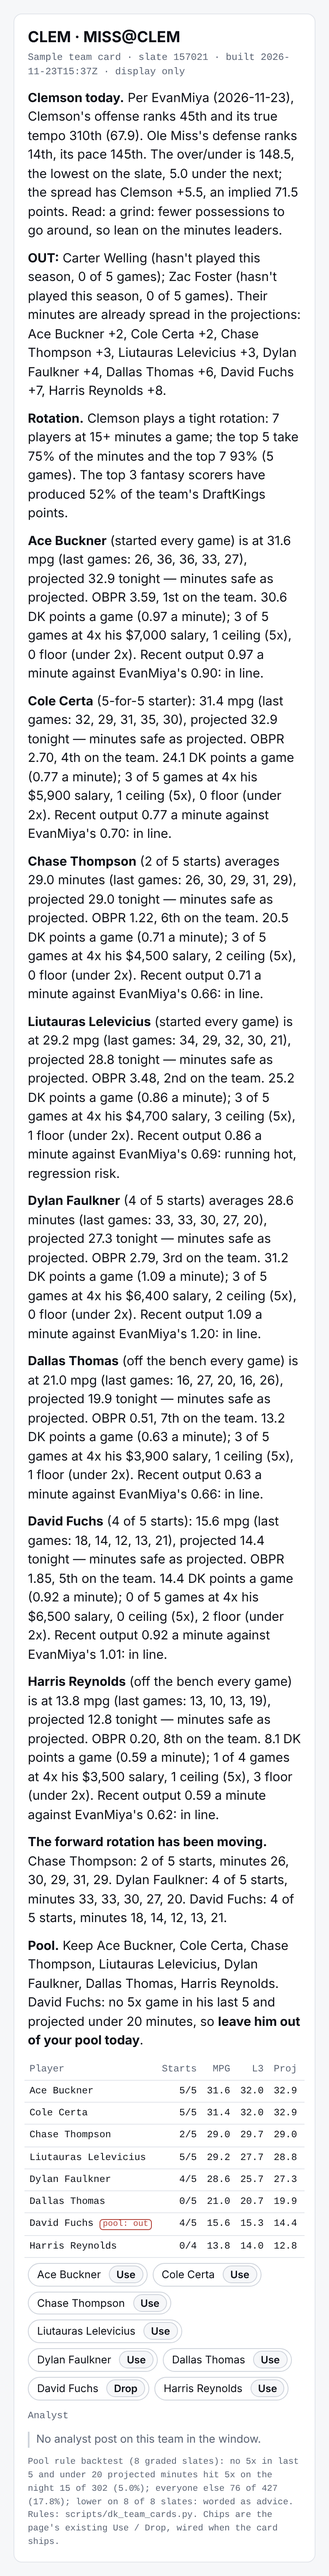
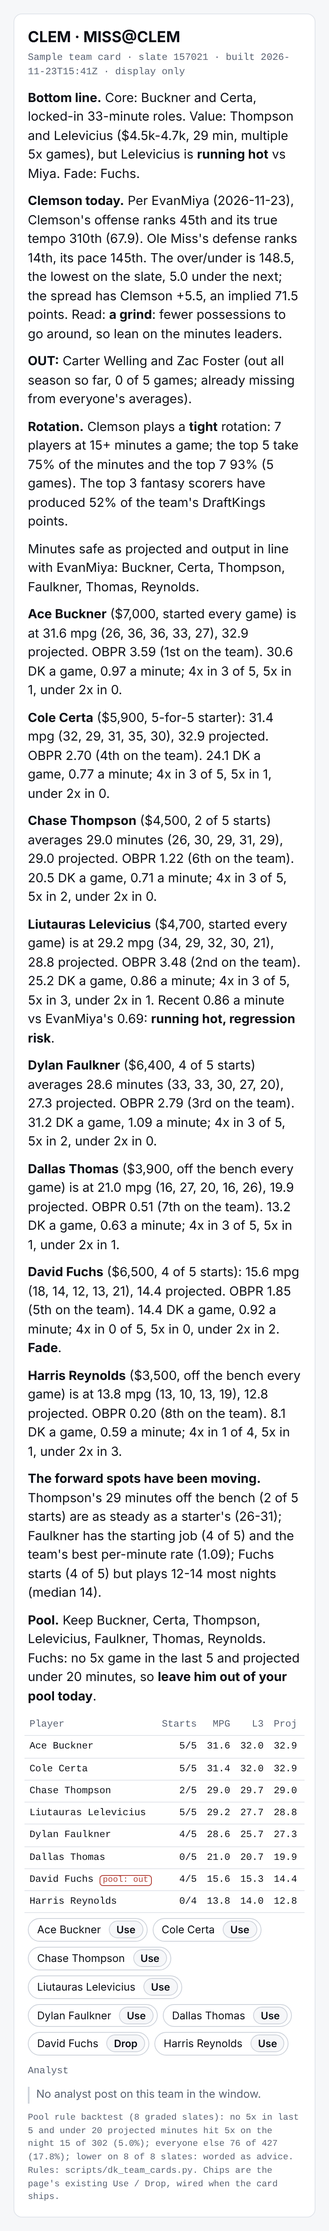
Team write-up sample: bottom line first, new-outs-only redistribution, less repetition, forward read
The coordinator's review of the Clemson sample: a computed bottom line (Core,
Value with the running-hot caveat, Fade), the minutes redistribution only for
outs who played this season (NEW_OUT_MIN_GP), 'minutes safe' and 'in line'
gathered into one sentence, salary in each player's first line, verdicts in
bold, and the moving forward group read in words (JOB_START_RATE,
STEADY_MIN_MPG, LOW_START_MPG, MOST_NIGHTS). The 4x counts were right; the
count is now a tested function, hand-checked on Buckner.

Claude-Session: https://claude.ai/code/session_01YYnNpCLtiC61XuaXEjG3K4

Changed region(s): [[0.0615, 0.0, 0.9231, 0.9981]]

diff --git a/analysis/cbb/dk/team_card_sample/157021_CLEM.html b/analysis/cbb/dk/team_card_sample/157021_CLEM.html
@@ -20,20 +20,22 @@ td.nm,th.nm{text-align:left;position:sticky;left:0;background:var(--surface)}
 .an{font-size:13px;color:var(--muted);border-left:2px solid var(--line-strong);padding-left:8px}
 .an a{color:var(--muted)}.foot{font-family:var(--mono);font-size:10.5px;color:var(--muted);margin-top:8px}
 </style></head><body><div class="wrap"><div class="card">
-<h1>CLEM · MISS@CLEM</h1><div class="sub">Sample team card · slate 157021 · built 2026-11-23T15:37Z · display only</div>
-<p><b>Clemson today.</b> Per EvanMiya (2026-11-23), Clemson&#x27;s offense ranks 45th and its true tempo 310th (67.9). Ole Miss&#x27;s defense ranks 14th, its pace 145th. The over/under is 148.5, the lowest on the slate, 5.0 under the next; the spread has Clemson +5.5, an implied 71.5 points. Read: a grind: fewer possessions to go around, so lean on the minutes leaders.</p>
-<p><b>OUT:</b> Carter Welling (hasn&#x27;t played this season, 0 of 5 games); Zac Foster (hasn&#x27;t played this season, 0 of 5 games). Their minutes are already spread in the projections: Ace Buckner +2, Cole Certa +2, Chase Thompson +3, Liutauras Lelevicius +3, Dylan Faulkner +4, Dallas Thomas +6, David Fuchs +7, Harris Reynolds +8.</p>
-<p><b>Rotation.</b> Clemson plays a tight rotation: 7 players at 15+ minutes a game; the top 5 take 75% of the minutes and the top 7 93% (5 games). The top 3 fantasy scorers have produced 52% of the team&#x27;s DraftKings points.</p>
-<p><b>Ace Buckner</b> (started every game) is at 31.6 mpg (last games: 26, 36, 36, 33, 27), projected 32.9 tonight — minutes safe as projected. OBPR 3.59, 1st on the team. 30.6 DK points a game (0.97 a minute); 3 of 5 games at 4x his $7,000 salary, 1 ceiling (5x), 0 floor (under 2x). Recent output 0.97 a minute against EvanMiya&#x27;s 0.90: in line.</p>
-<p><b>Cole Certa</b> (5-for-5 starter): 31.4 mpg (last games: 32, 29, 31, 35, 30), projected 32.9 tonight — minutes safe as projected. OBPR 2.70, 4th on the team. 24.1 DK points a game (0.77 a minute); 3 of 5 games at 4x his $5,900 salary, 1 ceiling (5x), 0 floor (under 2x). Recent output 0.77 a minute against EvanMiya&#x27;s 0.70: in line.</p>
-<p><b>Chase Thompson</b> (2 of 5 starts) averages 29.0 minutes (last games: 26, 30, 29, 31, 29), projected 29.0 tonight — minutes safe as projected. OBPR 1.22, 6th on the team. 20.5 DK points a game (0.71 a minute); 3 of 5 games at 4x his $4,500 salary, 2 ceiling (5x), 0 floor (under 2x). Recent output 0.71 a minute against EvanMiya&#x27;s 0.66: in line.</p>
-<p><b>Liutauras Lelevicius</b> (started every game) is at 29.2 mpg (last games: 34, 29, 32, 30, 21), projected 28.8 tonight — minutes safe as projected. OBPR 3.48, 2nd on the team. 25.2 DK points a game (0.86 a minute); 3 of 5 games at 4x his $4,700 salary, 3 ceiling (5x), 1 floor (under 2x). Recent output 0.86 a minute against EvanMiya&#x27;s 0.69: running hot, regression risk.</p>
-<p><b>Dylan Faulkner</b> (4 of 5 starts) averages 28.6 minutes (last games: 33, 33, 30, 27, 20), projected 27.3 tonight — minutes safe as projected. OBPR 2.79, 3rd on the team. 31.2 DK points a game (1.09 a minute); 3 of 5 games at 4x his $6,400 salary, 2 ceiling (5x), 0 floor (under 2x). Recent output 1.09 a minute against EvanMiya&#x27;s 1.20: in line.</p>
-<p><b>Dallas Thomas</b> (off the bench every game) is at 21.0 mpg (last games: 16, 27, 20, 16, 26), projected 19.9 tonight — minutes safe as projected. OBPR 0.51, 7th on the team. 13.2 DK points a game (0.63 a minute); 3 of 5 games at 4x his $3,900 salary, 1 ceiling (5x), 1 floor (under 2x). Recent output 0.63 a minute against EvanMiya&#x27;s 0.66: in line.</p>
-<p><b>David Fuchs</b> (4 of 5 starts): 15.6 mpg (last games: 18, 14, 12, 13, 21), projected 14.4 tonight — minutes safe as projected. OBPR 1.85, 5th on the team. 14.4 DK points a game (0.92 a minute); 0 of 5 games at 4x his $6,500 salary, 0 ceiling (5x), 2 floor (under 2x). Recent output 0.92 a minute against EvanMiya&#x27;s 1.01: in line.</p>
-<p><b>Harris Reynolds</b> (off the bench every game) is at 13.8 mpg (last games: 13, 10, 13, 19), projected 12.8 tonight — minutes safe as projected. OBPR 0.20, 8th on the team. 8.1 DK points a game (0.59 a minute); 1 of 4 games at 4x his $3,500 salary, 1 ceiling (5x), 3 floor (under 2x). Recent output 0.59 a minute against EvanMiya&#x27;s 0.62: in line.</p>
-<p><b>The forward rotation has been moving.</b> Chase Thompson: 2 of 5 starts, minutes 26, 30, 29, 31, 29. Dylan Faulkner: 4 of 5 starts, minutes 33, 33, 30, 27, 20. David Fuchs: 4 of 5 starts, minutes 18, 14, 12, 13, 21.</p>
-<p><b>Pool.</b> Keep Ace Buckner, Cole Certa, Chase Thompson, Liutauras Lelevicius, Dylan Faulkner, Dallas Thomas, Harris Reynolds. David Fuchs: no 5x game in his last 5 and projected under 20 minutes, so <b>leave him out of your pool today</b>.</p>
+<h1>CLEM · MISS@CLEM</h1><div class="sub">Sample team card · slate 157021 · built 2026-11-23T15:41Z · display only</div>
+<p><b>Bottom line.</b> Core: Buckner and Certa, locked-in 33-minute roles. Value: Thompson and Lelevicius ($4.5k-4.7k, 29 min, multiple 5x games), but Lelevicius is <b>running hot</b> vs Miya. Fade: Fuchs.</p>
+<p><b>Clemson today.</b> Per EvanMiya (2026-11-23), Clemson&#x27;s offense ranks 45th and its true tempo 310th (67.9). Ole Miss&#x27;s defense ranks 14th, its pace 145th. The over/under is 148.5, the lowest on the slate, 5.0 under the next; the spread has Clemson +5.5, an implied 71.5 points. Read: <b>a grind</b>: fewer possessions to go around, so lean on the minutes leaders.</p>
+<p><b>OUT:</b> Carter Welling and Zac Foster (out all season so far, 0 of 5 games; already missing from everyone&#x27;s averages).</p>
+<p><b>Rotation.</b> Clemson plays a <b>tight</b> rotation: 7 players at 15+ minutes a game; the top 5 take 75% of the minutes and the top 7 93% (5 games). The top 3 fantasy scorers have produced 52% of the team&#x27;s DraftKings points.</p>
+<p>Minutes safe as projected and output in line with EvanMiya: Buckner, Certa, Thompson, Faulkner, Thomas, Reynolds.</p>
+<p><b>Ace Buckner</b> ($7,000, started every game) is at 31.6 mpg (26, 36, 36, 33, 27), 32.9 projected. OBPR 3.59 (1st on the team). 30.6 DK a game, 0.97 a minute; 4x in 3 of 5, 5x in 1, under 2x in 0.</p>
+<p><b>Cole Certa</b> ($5,900, 5-for-5 starter): 31.4 mpg (32, 29, 31, 35, 30), 32.9 projected. OBPR 2.70 (4th on the team). 24.1 DK a game, 0.77 a minute; 4x in 3 of 5, 5x in 1, under 2x in 0.</p>
+<p><b>Chase Thompson</b> ($4,500, 2 of 5 starts) averages 29.0 minutes (26, 30, 29, 31, 29), 29.0 projected. OBPR 1.22 (6th on the team). 20.5 DK a game, 0.71 a minute; 4x in 3 of 5, 5x in 2, under 2x in 0.</p>
+<p><b>Liutauras Lelevicius</b> ($4,700, started every game) is at 29.2 mpg (34, 29, 32, 30, 21), 28.8 projected. OBPR 3.48 (2nd on the team). 25.2 DK a game, 0.86 a minute; 4x in 3 of 5, 5x in 3, under 2x in 1. Recent 0.86 a minute vs EvanMiya&#x27;s 0.69: <b>running hot, regression risk</b>.</p>
+<p><b>Dylan Faulkner</b> ($6,400, 4 of 5 starts) averages 28.6 minutes (33, 33, 30, 27, 20), 27.3 projected. OBPR 2.79 (3rd on the team). 31.2 DK a game, 1.09 a minute; 4x in 3 of 5, 5x in 2, under 2x in 0.</p>
+<p><b>Dallas Thomas</b> ($3,900, off the bench every game) is at 21.0 mpg (16, 27, 20, 16, 26), 19.9 projected. OBPR 0.51 (7th on the team). 13.2 DK a game, 0.63 a minute; 4x in 3 of 5, 5x in 1, under 2x in 1.</p>
+<p><b>David Fuchs</b> ($6,500, 4 of 5 starts): 15.6 mpg (18, 14, 12, 13, 21), 14.4 projected. OBPR 1.85 (5th on the team). 14.4 DK a game, 0.92 a minute; 4x in 0 of 5, 5x in 0, under 2x in 2. <b>Fade</b>.</p>
+<p><b>Harris Reynolds</b> ($3,500, off the bench every game) is at 13.8 mpg (13, 10, 13, 19), 12.8 projected. OBPR 0.20 (8th on the team). 8.1 DK a game, 0.59 a minute; 4x in 1 of 4, 5x in 1, under 2x in 3.</p>
+<p><b>The forward spots have been moving.</b> Thompson&#x27;s 29 minutes off the bench (2 of 5 starts) are as steady as a starter&#x27;s (26-31); Faulkner has the starting job (4 of 5) and the team&#x27;s best per-minute rate (1.09); Fuchs starts (4 of 5) but plays 12-14 most nights (median 14).</p>
+<p><b>Pool.</b> Keep Buckner, Certa, Thompson, Lelevicius, Faulkner, Thomas, Reynolds. Fuchs: no 5x game in the last 5 and projected under 20 minutes, so <b>leave him out of your pool today</b>.</p>
 <div class="tbl"><table><tr><th class="nm">Player</th><th>Starts</th><th>MPG</th><th>L3</th><th>Proj</th><th>DK/g</th><th>DK/min</th><th>4x/5x/&lt;2x</th><th>OBPR (rank)</th><th>Form</th></tr><tr><td class='nm'>Ace Buckner</td><td>5/5</td><td>31.6</td><td>32.0</td><td>32.9</td><td>30.6</td><td>0.97</td><td>3/1/0</td><td>3.59 (1st)</td><td>in line</td></tr><tr><td class='nm'>Cole Certa</td><td>5/5</td><td>31.4</td><td>32.0</td><td>32.9</td><td>24.1</td><td>0.77</td><td>3/1/0</td><td>2.70 (4th)</td><td>in line</td></tr><tr><td class='nm'>Chase Thompson</td><td>2/5</td><td>29.0</td><td>29.7</td><td>29.0</td><td>20.5</td><td>0.71</td><td>3/2/0</td><td>1.22 (6th)</td><td>in line</td></tr><tr><td class='nm'>Liutauras Lelevicius</td><td>5/5</td><td>29.2</td><td>27.7</td><td>28.8</td><td>25.2</td><td>0.86</td><td>3/3/1</td><td>3.48 (2nd)</td><td>running hot, regression risk</td></tr><tr><td class='nm'>Dylan Faulkner</td><td>4/5</td><td>28.6</td><td>25.7</td><td>27.3</td><td>31.2</td><td>1.09</td><td>3/2/0</td><td>2.79 (3rd)</td><td>in line</td></tr><tr><td class='nm'>Dallas Thomas</td><td>0/5</td><td>21.0</td><td>20.7</td><td>19.9</td><td>13.2</td><td>0.63</td><td>3/1/1</td><td>0.51 (7th)</td><td>in line</td></tr><tr><td class='nm'>David Fuchs <span class='tag'>pool: out</span></td><td>4/5</td><td>15.6</td><td>15.3</td><td>14.4</td><td>14.4</td><td>0.92</td><td>0/0/2</td><td>1.85 (5th)</td><td>in line</td></tr><tr><td class='nm'>Harris Reynolds</td><td>0/4</td><td>13.8</td><td>14.0</td><td>12.8</td><td>8.1</td><td>0.59</td><td>1/1/3</td><td>0.20 (8th)</td><td>in line</td></tr></table></div>
 <div class="chips"><span class='chip'>Ace Buckner <button>Use</button></span><span class='chip'>Cole Certa <button>Use</button></span><span class='chip'>Chase Thompson <button>Use</button></span><span class='chip'>Liutauras Lelevicius <button>Use</button></span><span class='chip'>Dylan Faulkner <button>Use</button></span><span class='chip'>Dallas Thomas <button>Use</button></span><span class='chip'>David Fuchs <button>Drop</button></span><span class='chip'>Harris Reynolds <button>Use</button></span></div>
 <div class="sub">Analyst</div><p class='an'>No analyst post on this team in the window.</p>

diff --git a/scripts/dk_team_cards.py b/scripts/dk_team_cards.py
@@ -14,7 +14,7 @@ Sources (nothing typed by hand):
   python3 scripts/dk_team_cards.py sample --team CLEM --slate 157021 --out analysis/cbb/dk/team_card_sample
   python3 scripts/dk_team_cards.py backtest          (the pool-advice rule on the graded slates)
 """
-import argparse, csv, glob, html, json, os, statistics as S, sys, time, urllib.request
+import argparse, csv, glob, html, json, math, os, statistics as S, sys, time, urllib.request
 
 HERE = os.path.dirname(os.path.abspath(__file__))
 MIRROR = os.path.join(HERE, "..", "..", "br-adp-mirror")
@@ -59,6 +59,23 @@ at most half the others' pooled AND lower on 3 of 4 slates or more; otherwise it
 GRIND_TEMPO, PACE_TEMPO, OU_GAP = 240, 120, 5.0
 """Game environment: both teams' EvanMiya tempo ranks averaging 240+ (slow) or the slate's lowest O/U by 5+ points:
 a grind; averaging 120 or better and not the slate's lowest O/U: a pace-up spot; otherwise middling."""
+NEW_OUT_MIN_GP = 1
+"""An Out player who has played this many games this season or more is a NEW out: his minutes' redistribution (out_gain)
+is listed. A season-long out (0 games) is already missing from everyone's averages, so no list (it reads as double
+counting)."""
+CORE_MIN_PROJ, CORE_MAX_CV, CORE_MAX = 30.0, 0.15, 3
+"""Bottom line, Core: projected 30+ minutes, his minutes' coefficient of variation at most 0.15 (a stable role), started
+every game he played; the top 3 by projected minutes at most."""
+VALUE_MAX_SALARY, VALUE_MIN_PROJ, VALUE_MIN_CEIL = 5000, 25.0, 2
+"""Bottom line, Value: salary $5,000 or less, projected 25+ minutes, 2+ ceiling games (CEILING_X) this season; the
+running-hot verdict (HOT_ABOVE) is named as a caveat when it fires."""
+JOB_START_RATE, STEADY_MIN_MPG, LOW_START_MPG = 0.75, 25.0, 20.0
+"""A moving position group, read player by player: started 75%+ of his games: 'has the starting job'; 25+ mpg with
+minutes CV at most CORE_MAX_CV while starting under half: 'minutes as steady as a starter's'; started half or more but
+a median under 20 minutes: 'starts but plays little'. The team's best DraftKings rate per minute among the rotation is
+named where its holder is in the group."""
+MOST_NIGHTS = 0.6
+"""'Plays a-b most nights': the range of his lowest 60% of games by minutes."""
 DD_STATS = ("PTS", "REB", "AST", "STL", "BLK")
 
 
@@ -85,6 +102,54 @@ def minutes_note(proj, season, last3, out_gain=None):
     if abs(proj - season) <= MIN_SAFE_BAND and abs(proj - last3) <= MIN_SAFE_BAND:
         return "minutes safe as projected"
     return None
+
+
+def count_games(dks, salary, x):
+    """Games with DraftKings points at or over x times the salary in thousands (HIT_X, CEILING_X)."""
+    return sum(d >= x * salary / 1000 for d in dks)
+
+
+def cv(xs):
+    """Coefficient of variation of a list (population sd / mean); 0 for an empty or zero list."""
+    return S.pstdev(xs) / S.mean(xs) if xs and S.mean(xs) else 0.0
+
+
+def new_out(played):
+    """NEW_OUT_MIN_GP: True for an out who has played this season."""
+    return played >= NEW_OUT_MIN_GP
+
+
+def is_core(L):
+    """CORE_MIN_PROJ, CORE_MAX_CV: a stable 30-minute starter."""
+    return (L["proj_min"] or 0) >= CORE_MIN_PROJ and L["gp"] >= 3 and L["starts"] == L["gp"] and cv(L["mins"]) <= CORE_MAX_CV
+
+
+def is_value(L):
+    """VALUE_MAX_SALARY, VALUE_MIN_PROJ, VALUE_MIN_CEIL."""
+    return L["salary"] <= VALUE_MAX_SALARY and (L["proj_min"] or 0) >= VALUE_MIN_PROJ and L["ceil"] >= VALUE_MIN_CEIL
+
+
+def group_read(L, best_ppm_name):
+    """One sentence on a moving group's player (JOB_START_RATE, STEADY_MIN_MPG, LOW_START_MPG), or None."""
+    rate = L["starts"] / L["gp"] if L["gp"] else 0
+    med = S.median(L["mins"]) if L["mins"] else 0
+    best = " and the team's best per-minute rate (%.2f)" % L["dk_pm"] if L["name"] == best_ppm_name else ""
+    if rate >= JOB_START_RATE and med >= LOW_START_MPG:
+        return "%s has the starting job (%d of %d)%s" % (last(L["name"]), L["starts"], L["gp"], best)
+    if rate < 0.5 and (L["season_mpg"] or 0) >= STEADY_MIN_MPG and cv(L["mins"]) <= CORE_MAX_CV:
+        return "%s's %.0f minutes off the bench (%d of %d starts) are as steady as a starter's (%.0f-%.0f)%s" % (
+            last(L["name"]), L["season_mpg"], L["starts"], L["gp"], min(L["mins"]), max(L["mins"]), best)
+    if rate >= 0.5 and med < LOW_START_MPG:
+        lo = sorted(L["mins"])[:max(1, math.ceil(MOST_NIGHTS * len(L["mins"])))]
+        return "%s starts (%d of %d) but plays %.0f-%.0f most nights (median %.0f)%s" % (
+            last(L["name"]), L["starts"], L["gp"], min(lo), max(lo), med, best)
+    return None
+
+
+def last(name):
+    """A last name for the prose (suffixes kept off)."""
+    parts = [x for x in name.split() if x.rstrip(".").upper() not in ("JR", "SR", "II", "III", "IV")]
+    return parts[-1] if parts else name
 
 
 def form_note(dks, mins, miya_ppm):
@@ -271,8 +336,8 @@ def build(team, slate_id, cache):
             "min_note": minutes_note(r.get("min") or 0, season, last3, r.get("out_gain")), "out_gain": r.get("out_gain"),
             "obpr": obpr.get(norm(r["name"]), r.get("obpr")), "obpr_rank": obpr_rank.get(norm(r["name"])), "obpr_of": len(team_m),
             "dk_pg": S.mean(dks) if dks else None, "dk_pm": (sum(dks) / sum(mins)) if mins else None, "dks": dks,
-            "hits": sum(x >= HIT_X * sal / 1000 for x in dks), "ceil": sum(x >= CEILING_X * sal / 1000 for x in dks),
-            "floor": sum(x < FLOOR_X * sal / 1000 for x in dks), "form": verdict, "ppm_recent": ppm_recent, "miya_ppm": r.get("miya_ppm"),
+            "hits": count_games(dks, sal, HIT_X), "ceil": count_games(dks, sal, CEILING_X), "mins": mins,
+            "floor": len(dks) - count_games(dks, sal, FLOOR_X), "form": verdict, "ppm_recent": ppm_recent, "miya_ppm": r.get("miya_ppm"),
             "form_ratio": ratio, "shy": shy_away(mins), "pool_out": pool_flag(dks, sal, r.get("min") or 0),
             "status": r.get("status"),
         })
@@ -295,76 +360,110 @@ def ordinal(k):
 
 
 def prose(c, holds):
-    """The card's paragraphs, from the numbers and the rules; varied phrasing by name (variant)."""
-    e, out = c["env"], []
+    """The card's paragraphs, from the numbers and the rules; varied phrasing by name (variant). Bottom line first;
+    verdict tags in bold; 'minutes safe' and 'in line' gathered into one sentence instead of repeated per player."""
+    e, out, Ls = c["env"], [], c["lines"]
+    money = lambda x: "$%.1fk" % (x / 1000)
+    # -- bottom line (is_core, is_value, pool_flag)
+    core = [L for L in Ls if is_core(L)][:CORE_MAX]
+    value = [L for L in Ls if is_value(L) and L not in core]
+    fade = [L for L in Ls if L["pool_out"]]
+    bl = []
+    if core:
+        bl.append("Core: %s, locked-in %.0f-minute roles." % (" and ".join(last(L["name"]) for L in core), S.mean(L["proj_min"] for L in core)))
+    if value:
+        sal = sorted(L["salary"] for L in value)
+        rng = money(sal[0]) if sal[0] == sal[-1] else "%s-%s" % (money(sal[0]), money(sal[-1])[1:])
+        hot = [last(L["name"]) for L in value if L["form"] and L["form"].startswith("running hot")]
+        bl.append("Value: %s (%s, %.0f min, multiple %gx games)%s." % (
+            " and ".join(last(L["name"]) for L in value), rng, S.mean(L["proj_min"] for L in value), CEILING_X,
+            ", but %s %s **running hot** vs Miya" % (" and ".join(hot), "is" if len(hot) == 1 else "are") if hot else ""))
+    if fade:
+        bl.append(("Fade: %s." if holds else "Light on ceiling: %s.") % ", ".join(last(L["name"]) for L in fade))
+    if bl:
+        out.append(("Bottom line.", " ".join(bl)))
+    # -- game environment
     pos = "the lowest" if e["ou_rank"] == 1 else "the highest" if e["ou_rank"] == e["ou_n"] else "%s of %d" % (ordinal(e["ou_rank"]), e["ou_n"])
     gap = ""
     if e["ou_rank"] == 1 and len(e["ous"]) > 1:
         gap = ", %.1f under the next" % (e["ous"][1] - e["ous"][0])
     elif e["ou_rank"] == e["ou_n"] and len(e["ous"]) > 1:
         gap = ", %.1f over the next" % (e["ous"][-1] - e["ous"][-2])
-    kind = {"grind": "a grind: fewer possessions to go around, so lean on the minutes leaders",
-            "pace-up": "a pace-up spot: extra possessions lift everyone with minutes",
+    kind = {"grind": "**a grind**: fewer possessions to go around, so lean on the minutes leaders",
+            "pace-up": "**a pace-up spot**: extra possessions lift everyone with minutes",
             "middling": "no pace edge either way"}[e["kind"]]
     out.append(("%s today." % e["team"],
                 "Per EvanMiya (%s), %s's offense ranks %s and its true tempo %s (%.1f). %s's defense ranks %s, its pace %s. "
-                "The over/under is %.1f, %s on the slate%s; %s %s%.1f, an implied %.1f points. Read: %s." % (
+                "The over/under is %.1f, %s on the slate%s; the spread has %s %s%.1f, an implied %.1f points. Read: %s." % (
                     e["miya_day"], e["team"], ordinal(e["off_rank"]), ordinal(e["tempo_rank"]), e["tempo"], e["opp"], ordinal(e["opp_def_rank"]),
-                    ordinal(e["opp_tempo_rank"]), e["ou"], pos, gap, "the spread has " + e["team"], "-" if e["spread"] < 0 else "+",
+                    ordinal(e["opp_tempo_rank"]), e["ou"], pos, gap, e["team"], "-" if e["spread"] < 0 else "+",
                     abs(e["spread"]), e["implied"], kind)))
+    # -- outs (NEW_OUT_MIN_GP: the redistribution only for new outs)
     if c["outs"]:
+        old = [o for o in c["outs"] if not new_out(o["played"])]
+        new = [o for o in c["outs"] if new_out(o["played"])]
         bits = []
-        for o in c["outs"]:
-            if o["played"] == 0:
-                bits.append("%s (hasn't played this season, 0 of %d games)" % (o["name"], o["of"]))
-            else:
-                bits.append("%s (played %d of %d; out the last %d)" % (o["name"], o["played"], o["of"], o["missed_last"]))
+        if old:
+            bits.append("%s (out all season so far, 0 of %d games; already missing from everyone's averages)" % (
+                " and ".join(o["name"] for o in old), old[0]["of"]))
+        for o in new:
+            bits.append("%s (**new**: played %d of %d, out the last %d)" % (o["name"], o["played"], o["of"], o["missed_last"]))
         txt = "; ".join(bits) + "."
-        if c["out_from"]:
-            gains = [(L["name"], L["out_gain"]) for L in c["lines"] if (L["out_gain"] or 0) >= 1]
+        if new:
+            gains = [(last(L["name"]), L["out_gain"]) for L in Ls if (L["out_gain"] or 0) >= 1]
             if gains:
-                txt += " Their minutes are already spread in the projections: " + ", ".join("%s +%.0f" % g for g in gains) + "."
+                txt += " Their minutes go to: " + ", ".join("%s +%.0f" % g for g in gains) + "."
         out.append(("OUT:", txt))
     if c["flags"]:
         out.append(("Flags:", "; ".join(c["flags"]) + "."))
+    # -- rotation shape
     lab, t5, t7, regs = c["shape"]
-    out.append(("Rotation.", "%s plays a %s rotation: %d players at %d+ minutes a game; the top 5 take %.0f%% of the minutes and the top 7 %.0f%% (%d games). "
+    out.append(("Rotation.", "%s plays a **%s** rotation: %d players at %d+ minutes a game; the top 5 take %.0f%% of the minutes and the top 7 %.0f%% (%d games). "
                 "The top 3 fantasy scorers have produced %.0f%% of the team's DraftKings points." % (
                     e["team"], lab, regs, MPG_BAR, 100 * t5, 100 * t7, c["games"], 100 * c["top3_dk"])))
-    for L in c["lines"]:
+    # -- the steady ones, once (minutes safe and output in line)
+    steady = [L for L in Ls if L["min_note"] == "minutes safe as projected" and L["form"] in ("in line", None) and not L["pool_out"]]
+    if steady:
+        out.append(("", "Minutes safe as projected and output in line with EvanMiya: %s." % ", ".join(last(L["name"]) for L in steady)))
+    # -- player lines
+    for L in Ls:
         role = "%d of %d starts" % (L["starts"], L["gp"])
         if L["starts"] == L["gp"] and L["gp"]:
             role = variant(L["name"], ["started every game", "a starter in all %d" % L["gp"], "%d-for-%d starter" % (L["starts"], L["gp"])])
         elif L["starts"] == 0:
             role = variant(L["name"], ["off the bench every game", "a reserve in all %d" % L["gp"], "no starts in %d" % L["gp"]])
         mins = ", ".join("%.0f" % m for m in L["last5_mins"])
-        lead = variant(L["name"] + "x", ["**%s** (%s) is at %.1f mpg", "**%s** (%s) averages %.1f minutes", "**%s** (%s): %.1f mpg"]) % (
-            L["name"], role, L["season_mpg"] or 0)
-        s = lead + " (last games: %s), projected %.1f tonight" % (mins, L["proj_min"])
-        s += " — %s." % L["min_note"] if L["min_note"] else "."
+        lead = variant(L["name"] + "x", ["**%s** (%s, %s) is at %.1f mpg", "**%s** (%s, %s) averages %.1f minutes", "**%s** (%s, %s): %.1f mpg"]) % (
+            L["name"], "${:,}".format(L["salary"]), role, L["season_mpg"] or 0)
+        s = lead + " (%s), %.1f projected" % (mins, L["proj_min"])
+        s += " — **%s**." % L["min_note"] if L["min_note"] and L["min_note"] != "minutes safe as projected" else "."
         if L["obpr"] is not None and L["obpr_rank"]:
-            s += " OBPR %.2f, %s on the team." % (L["obpr"], ordinal(L["obpr_rank"]))
-        s += " %.1f DK points a game (%.2f a minute); %d of %d games at %gx his $%s salary, %d ceiling (%gx), %d floor (under %gx)." % (
-            L["dk_pg"] or 0, L["dk_pm"] or 0, L["hits"], L["gp"], HIT_X, "{:,}".format(L["salary"]), L["ceil"], CEILING_X, L["floor"], FLOOR_X)
-        if L["form"]:
-            s += " Recent output %.2f a minute against EvanMiya's %.2f: %s." % (L["ppm_recent"], L["miya_ppm"], L["form"])
+            s += " OBPR %.2f (%s on the team)." % (L["obpr"], ordinal(L["obpr_rank"]))
+        s += " %.1f DK a game, %.2f a minute; %gx in %d of %d, %gx in %d, under %gx in %d." % (
+            L["dk_pg"] or 0, L["dk_pm"] or 0, HIT_X, L["hits"], L["gp"], CEILING_X, L["ceil"], FLOOR_X, L["floor"])
+        if L["form"] and L["form"] != "in line":
+            s += " Recent %.2f a minute vs EvanMiya's %.2f: **%s**." % (L["ppm_recent"], L["miya_ppm"], L["form"])
         if L["shy"]:
-            s += " Minutes too volatile and too low: shy away even if starting."
+            s += " **Shy away even if starting**: minutes too volatile and too low."
+        if L["pool_out"]:
+            s += " **%s**." % ("Fade" if holds else "Rarely hits a ceiling")
         out.append(("", s))
-    for k, Ls in c["moving"].items():
-        out.append(("The %s rotation has been moving." % ("guard" if k == "G" else "forward"),
-                    " ".join("%s: %d of %d starts, minutes %s%s." % (L["name"], L["starts"], L["gp"], ", ".join("%.0f" % m for m in L["last5_mins"]),
-                                                                    " (shy away even if starting)" if L["shy"] else "") for L in Ls)))
-    keep = [L["name"] for L in c["lines"] if not L["pool_out"]]
-    drop = [L for L in c["lines"] if L["pool_out"]]
-    if drop:
-        names = " and ".join(L["name"] for L in drop) if len(drop) <= 2 else ", ".join(L["name"] for L in drop)
-        why = "no %gx game in his last %d and projected under %d minutes" % (CEILING_X, POOL_LAST_N, POOL_MIN_PROJ)
-        if holds:
-            txt = "Keep %s. %s: %s, so **leave %s out of your pool today**." % (", ".join(keep), names, why, "them" if len(drop) > 1 else "him")
-        else:
-            txt = "Keep %s. %s: %s; players like that rarely hit a ceiling." % (", ".join(keep), names, why)
-        out.append(("Pool.", txt))
+    # -- moving groups, read (group_read)
+    best = max((L for L in Ls if L["dk_pm"] is not None and L["gp"] >= 3), key=lambda L: L["dk_pm"], default=None)
+    for k, G in c["moving"].items():
+        reads = [r for r in (group_read(L, best["name"] if best else None) for L in G) if r]
+        other = [L for L in G if not group_read(L, best["name"] if best else None)]
+        txt = "; ".join(reads) + "." if reads else ""
+        if other:
+            txt += " " + " ".join("%s: %d of %d starts, minutes %s." % (last(L["name"]), L["starts"], L["gp"], ", ".join("%.0f" % m for m in L["last5_mins"])) for L in other)
+        out.append(("The %s spots have been moving." % ("guard" if k == "G" else "forward"), txt.strip()))
+    # -- pool
+    keep = [last(L["name"]) for L in Ls if not L["pool_out"]]
+    if fade:
+        why = "no %gx game in the last %d and projected under %d minutes" % (CEILING_X, POOL_LAST_N, POOL_MIN_PROJ)
+        names = " and ".join(last(L["name"]) for L in fade)
+        out.append(("Pool.", ("Keep %s. %s: %s, so **leave %s out of your pool today**." % (", ".join(keep), names, why, "them" if len(fade) > 1 else "him"))
+                    if holds else "Keep %s. %s: %s; players like that rarely hit a ceiling." % (", ".join(keep), names, why)))
     else:
         out.append(("Pool.", "Every rotation player here has a ceiling game recently; keep %s." % ", ".join(keep)))
     return out

diff --git a/tests/dk_team_cards.py b/tests/dk_team_cards.py
@@ -45,5 +45,29 @@ check("environment: slate's lowest O/U by 5+ is a grind", C.environment(150, 150
 check("environment: fast teams, not lowest, pace-up", C.environment(60, 100, 150.0, [140.0, 150.0]) == "pace-up")
 check("environment: middling", C.environment(200, 150, 150.0, [140.0, 150.0]) == "middling")
 check("variant is deterministic", C.variant("Ace", ["a", "b", "c"]) == C.variant("Ace", ["a", "b", "c"]))
+# the 4x count, hand-checked (Ace Buckner, $7,000, Clemson's 5 box scores to 11-17: 31.0, 38.0, 27.25, 33.5, 23.5;
+# 4x = 28.0: 31.0, 38.0, 33.5 = 3; 5x = 35.0: 38.0 = 1; under 2x = 14.0: none)
+bk = [31.0, 38.0, 27.25, 33.5, 23.5]
+check("count_games: Buckner 4x = 3, 5x = 1, under 2x = 0",
+      C.count_games(bk, 7000, 4) == 3 and C.count_games(bk, 7000, 5) == 1 and len(bk) - C.count_games(bk, 7000, 2) == 0)
+check("count_games: exactly at the bar counts", C.count_games([28.0], 7000, 4) == 1)
+# outs
+check("new out: played this season", C.new_out(3) and not C.new_out(0))
+# bottom line
+L = lambda **k: dict({"name": "A B", "salary": 4500, "proj_min": 29, "gp": 5, "starts": 5, "mins": [30, 31, 29, 32, 30],
+                      "ceil": 2, "season_mpg": 30.4, "dk_pm": 0.8}, **k)
+check("core: 30+ projected, steady, every start", C.is_core(L(proj_min=33)))
+check("core: not with a missed start", not C.is_core(L(proj_min=33, starts=4)))
+check("core: not with swingy minutes", not C.is_core(L(proj_min=33, mins=[20, 36, 25, 38, 30])))
+check("value: cheap, 25+ projected, 2+ ceilings", C.is_value(L()))
+check("value: not over $5,000", not C.is_value(L(salary=5900)))
+check("value: not with 1 ceiling", not C.is_value(L(ceil=1)))
+# the moving group read
+check("group: the starting job, best rate named", C.group_read(L(name="Dylan Faulkner", starts=4, mins=[33, 33, 30, 27, 20], dk_pm=1.09), "Dylan Faulkner")
+      == "Faulkner has the starting job (4 of 5) and the team's best per-minute rate (1.09)")
+check("group: steady bench minutes", C.group_read(L(name="Chase Thompson", starts=2, mins=[26, 30, 29, 31, 29], season_mpg=29.0), None)
+      .startswith("Thompson's 29 minutes off the bench (2 of 5 starts) are as steady as a starter's (26-31)"))
+check("group: starts but plays little, most nights = lowest 60%", C.group_read(L(name="David Fuchs", starts=4, mins=[18, 14, 12, 13, 21], season_mpg=15.6), None)
+      == "Fuchs starts (4 of 5) but plays 12-14 most nights (median 14)")
 print("%d passed, %d failed" % (ok, bad))
 sys.exit(1 if bad else 0)
